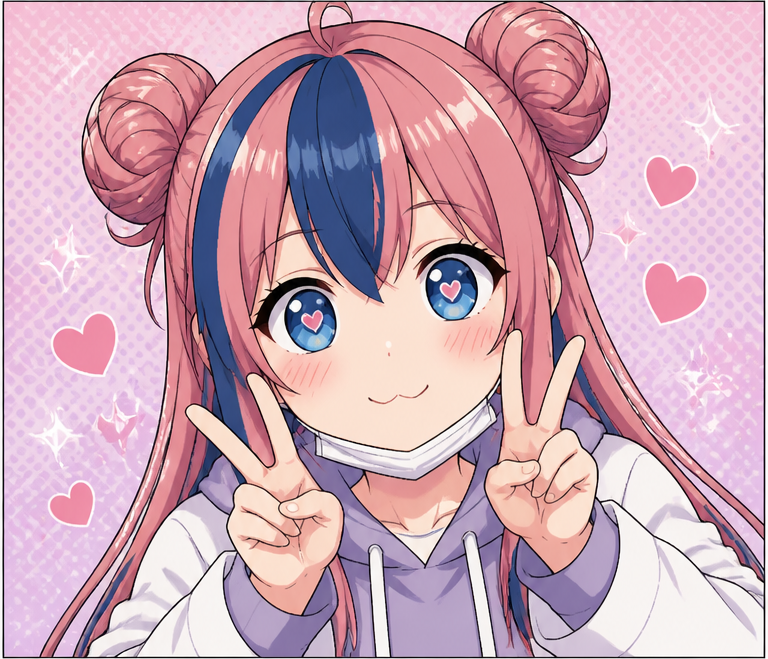
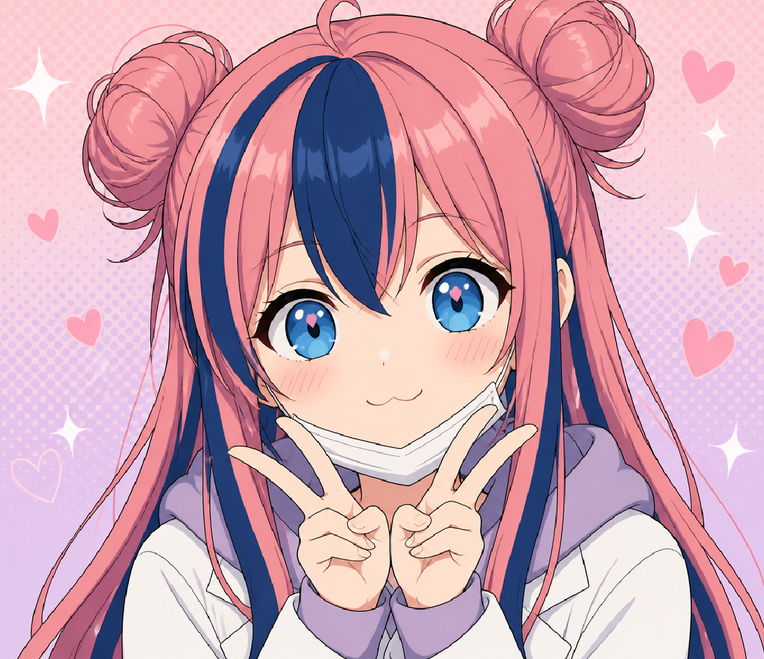
폰 배경 P3 팔 고침 v1.5: 하루 G0·G1·G2, 모아 G2·G3 P3 단독 재생성본을 아래 칸에 끼워 넣음
- 5장 모두 팔 2개 확인, 3컷 그림과 PH1_p3 컷 함께 교체
- 생성 원본(1200×1000) images/_sheets/phone/p3_regen/ 보관
- phone.json 노트·버전, README 상태 갱신

diff --git a/phone.html b/phone.html
@@ -27,7 +27,7 @@ details{font-size:13px}details pre{white-space:pre-wrap;word-break:break-word;ba
 footer{color:var(--mute);font-size:13px;padding-bottom:40px}
 @media (max-width:760px){header,main,footer,nav{padding-left:16px;padding-right:16px}h1{font-size:26px}}
 </style><!-- px-fix v1 --><style id="px-fix">img{image-rendering:auto!important}</style><script id="px-fix-js">(function(){var R=window.ResizeObserver;function f(i){var n=i.naturalWidth,w=i.getBoundingClientRect().width;if(!n||!w)return;var s=w*(window.devicePixelRatio||1)/n;i.style.setProperty("image-rendering",s>=1.95?"pixelated":"auto","important")}var ro=R?new R(function(es){es.forEach(function(e){f(e.target)})}):null;function a(i){if(i.__px)return;i.__px=1;i.addEventListener("load",function(){f(i)});if(ro)ro.observe(i);f(i)}function all(r){(r||document).querySelectorAll&&(r||document).querySelectorAll("img").forEach(a)}function go(){all();if(window.MutationObserver)new MutationObserver(function(ms){ms.forEach(function(m){m.addedNodes.forEach(function(n){if(n.nodeType!==1)return;if(n.tagName==="IMG")a(n);else all(n)})})}).observe(document.documentElement,{childList:true,subtree:true});window.addEventListener("resize",function(){document.querySelectorAll("img").forEach(f)})}if(document.readyState==="loading")document.addEventListener("DOMContentLoaded",go);else go()})();</script><!-- /px-fix --></head><body>
-<header><div class="eyebrow">Fruit Fly Lab · Phone Wallpaper Selfie Vector v1.4</div>
+<header><div class="eyebrow">Fruit Fly Lab · Phone Wallpaper Selfie Vector v1.5</div>
 <h1>폰 배경 셀카 3컷</h1>
 <p class="lede"><b>하루·시아·모아</b>의 세로 폰 배경(9:16)입니다. 만세 → 옆모습 놀람 → 셀카 브이 클로즈업의 3컷을 캐릭터마다 <b>픽셀판·벡터판</b> 두 장으로 두고, 벡터판에는 장비 옵션(헤드셋·마스크·안전모)을 더합니다. 맨 위 12%는 잠금화면 시계 자리로 비우고, 대사는 그림에 넣지 않습니다.</p>
 <p class="links"><a href="index.html">← 표정 라이브러리</a> · <a href="gallery_import.html">갤러리 가져오기</a> · <a href="motions.html">동작·의상</a> · <a href="hair.html">헤어</a> · <a href="factory.html">공장 복장·동작</a> · <a href="scenes.html">장면 그림</a> · <a href="specs/phone/README.md">명세 README</a> · <a href="specs/phone/PROMPTS.md">생성 프롬프트</a> · <a href="specs/phone/phone.json">phone.json</a></p>

diff --git a/README.md b/README.md
@@ -177,13 +177,13 @@ git push -u origin main
 - 말풍선은 그림에서 비워 두고 대사는 페이지에서 글자로 얹습니다. 패러디는 말투만 빌리고 다른 작품의 인물·의상은 쓰지 않습니다.
 - 현재 상태: 6장 **승인(approved, 2026-11-16)**, 사용처 optimization_3d_map `first_step_1.html`·`first_step_2.html`.
 
-## 폰 배경 셀카 3컷 (phone v1.4, 2026-11-19)
+## 폰 배경 셀카 3컷 (phone v1.5, 2026-11-27)
 여성 캐릭터 **하루·시아·모아**의 세로 폰 배경(9:16) 3컷 만화입니다 — P1 만세 → P2 옆모습 놀람 → P3 셀카 브이 클로즈업. 캐릭터마다 **픽셀판 1장 + 벡터판 4장**(장비 옵션 G0 없음·G1 헤드셋·G2 마스크·G3 안전모), 모두 15장.
 - 갤러리 페이지: [phone.html](https://adminmrobo.github.io/fruitfly-lab-expressions/phone.html)
 - 그림: `images/phone/{캐릭터}/PH1_selfie3_{pixel|vector}[_G#_장비].png` (컷별 잘라 낸 그림 `PH1_p1~p3_…`)
 - 명세: `specs/phone/README.md` · 설정값: `specs/phone/phone.json` · 프롬프트: `specs/phone/PROMPTS.md`
 - 맨 위 12%는 잠금화면 시계 자리로 비우고, 대사는 그림에 넣지 않습니다. 참고 이미지는 컷 구성만 빌리고 그 작품 캐릭터의 요소는 쓰지 않습니다. 헤드셋은 일반 디자인(둥근 이어컵)이면 허용, 안전모는 공장 벡터 U01과 같은 노란 안전모.
-- 현재 상태: 15장 **generated** (2026-11-19, 768×1360) + 컷 45장. 남은 재생성은 5장(하루 G0·G1·G2, 모아 G2·G3, P3 팔 3~4개 — P3만 단독 생성해 끼워 넣기: `specs/phone/PROMPTS_p3_fix.md`) + 선택 1장(모아 G1, 벡터판인데 픽셀풍) — 하루·모아 P3는 v1.3부터 삼각대 타이머 촬영
+- 현재 상태: 15장 **generated** (2026-11-19, 768×1360) + 컷 45장. P3 팔 3~4개였던 5장(하루 G0·G1·G2, 모아 G2·G3)은 2026-11-27 P3만 단독 재생성해 고침(`specs/phone/PROMPTS_p3_fix.md`, 원본 `images/_sheets/phone/p3_regen/`); 남은 선택 재생성 1장(모아 G1, 벡터판인데 픽셀풍) — 하루·모아 P3는 v1.3부터 삼각대 타이머 촬영
 
 ## 갤러리 가져오기 — 표정·포즈·설정 시트 (gallery_import v1.0, 2026-11-27)
 연구실 식구 갤러리([ahnboat_lab_gallery](https://adminmrobo.github.io/ahnboat_lab_gallery/))에서 이 라이브러리에 없는 그림을 골라 복사해 온 일곱 번째 축입니다. 표정 69장(`GX-E###`) · 포즈 26장(`GX-P###`) · 설정 시트 31장(`GX-S###`), 모두 126장. 3D 좌표용 자료(`GX-C###`)는 다음 묶음으로 추가 예정입니다.
